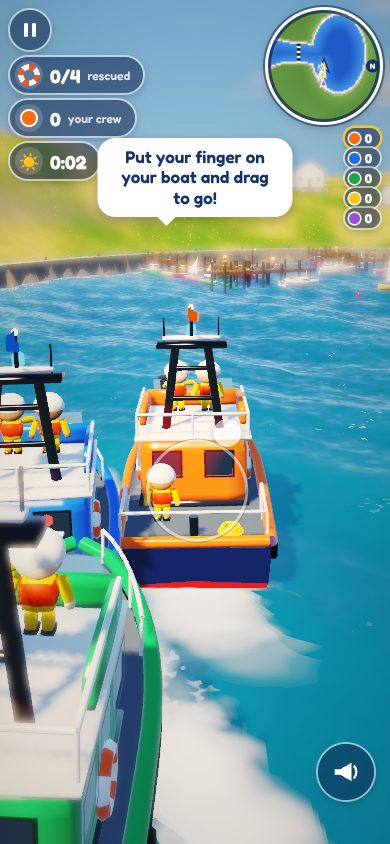
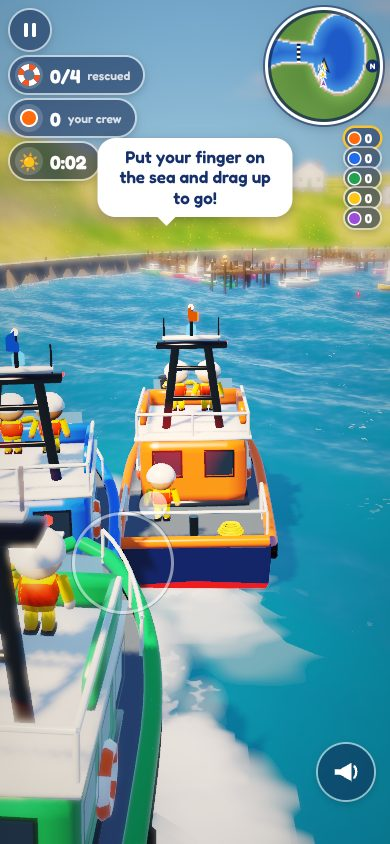
lab: rescue-coast steers from wherever you touch
A touch anywhere on the sea is the stick's middle for as long as the
finger stays down (the corner stick stays a Settings choice). Until you
have steered, a faint ring low down with its dot drifting up shows how.
With ?auto, a touch takes your boat back from the game. Smoke test and
steering views updated.

Claude-Session: https://claude.ai/code/session_01D2Nx3PayKJtFYoab5A57H3

diff --git a/cells/lab/client/rescue-coast/main.ts b/cells/lab/client/rescue-coast/main.ts
@@ -14,7 +14,7 @@
  *
  * Addresses: `?seed=` a coast; `?level=easy|medium|hard`; `?boat=0..4`; `?auto` (every boat the game's); `?t=40` that
  * far into the race; `?still` time held; `?view=podium`; `?near=n` little boat n and the boat coming for it;
- * `?mode=rally` the Rally; `?at=` the title's clock (seconds round its loop); `?weather=sunny|calm|windy|stormy|foggy|night|sunset`; `?study` a close look at your boat; `?zoom=`; `?hand=boat|left|right` where you steer from (your boat unless asked, or a stick in a bottom corner); `?preview` small and quiet.
+ * `?mode=rally` the Rally; `?at=` the title's clock (seconds round its loop); `?weather=sunny|calm|windy|stormy|foggy|night|sunset`; `?study` a close look at your boat; `?zoom=`; `?hand=touch|left|right` where you steer from (wherever you touch unless asked, or a stick in a bottom corner); `?preview` small and quiet.
  */
 import { CLEAR, GATE_HALF, GATE_Z, START_Z, groundAt, makeCoast, seaAt, seaward, shoreAt, type Coast, type CoastKind } from './coast';
 import { BOATS, CLIMB, HALF_BEAM, HALF_LEN, INSIDE, LEVELS, LINE, VMAX, everyoneAboard, local, newRace, runFor, standings, start, step, world, type Level, type Mode, type Race, type Rescue } from './race';
@@ -30,7 +30,7 @@ import { MiniMap, clock } from './hud';
 
 const params = new URLSearchParams(location.search);
 const preview = params.has('preview'), still = params.has('still') || params.has('ref'), study = params.has('study');
-const auto = params.has('auto') || preview;
+let auto = params.has('auto') || preview;
 const zoom = Number(params.get('zoom') ?? 1) || 1;
 const $ = (id: string) => document.getElementById(id) as HTMLElement;
 if (preview || study) document.body.classList.add('preview');
@@ -92,31 +92,23 @@ const lists: Record<string, Instances> = {};
 for (const k of ['boat', 'crew', 'kid0', 'kid1', 'kid2', 'row', 'kayak', 'sail', 'paddle', 'yacht', 'fishing', 'buoy-red', 'buoy-green', 'buoy-yellow', 'gull']) lists[k] = new Instances(64);
 const draws: Draw[] = Object.entries(lists).map(([kind, list]) => ({ kind, list }));
 const stick = new Joystick($('stick'), $('ghost'));
-/** where you steer from: your boat (a touch that starts on it takes hold of it), or a stick in a bottom corner; and whether
- * you've steered yet this time out (until you have, a ring round your boat says "here") */
-let steer: Steer = 'boat', steered = false;
+/** where you steer from: wherever you touch (that's the stick's middle while your finger's down), or a stick in a bottom
+ * corner; and whether you've steered yet this time out (until you have, a faint ring low down shows how) */
+let steer: Steer = 'touch', steered = false;
 function setSteer(s: Steer, keep = true) {
   steer = s;
-  document.body.classList.toggle('steer-boat', s === 'boat'); document.body.classList.toggle('hand-right', s !== 'left');
+  document.body.classList.toggle('steer-touch', s === 'touch'); document.body.classList.toggle('hand-right', s !== 'left');
   if (keep) store.set('lily-rescue-boats-steer', s);
 }
-stick.fromBoat(canvas, (x, y) => steer === 'boat' && ui === 'race' && !paused && !auto && onMyBoat(x, y));
-/** your lifeboat on the screen as drawn just now (CSS px): its middle, and its length */
-function myBoatOnScreen(): [number, number, number] | null {
-  const b = race.boats[mine], p = poses[b.id];
-  if (!p) return null;
-  const at = (along: number) => {
-    const [X, Y, Z] = onBoat(p, 0, 1.4, along);
-    const cx = vp[0] * X + vp[4] * Y + vp[8] * Z + vp[12], cy = vp[1] * X + vp[5] * Y + vp[9] * Z + vp[13], cw = vp[3] * X + vp[7] * Y + vp[11] * Z + vp[15];
-    return cw > 0 ? [(cx / cw * 0.5 + 0.5) * innerWidth, (0.5 - cy / cw * 0.5) * innerHeight] : null;
-  };
-  const a = at(-HALF_LEN), c = at(HALF_LEN);
-  return a && c ? [(a[0] + c[0]) / 2, (a[1] + c[1]) / 2, Math.hypot(c[0] - a[0], c[1] - a[1])] : null;
-}
-/** whether a point on the screen is on your lifeboat: generously, for a child's finger */
-function onMyBoat(px: number, py: number) {
-  const m = myBoatOnScreen();
-  return !!m && Math.hypot(px - m[0], py - m[1]) < Math.max(64, m[2] * 0.6);
+stick.anywhere(canvas, () => {
+  if (steer !== 'touch' || ui !== 'race' || paused || preview) return false;
+  // (the game steering everyone: a touch takes your boat back, unless the picture's held still)
+  if (auto) { if (still) return false; takeOver(); }
+  return true;
+});
+/** the game was steering every boat (`?auto`): yours is yours again */
+function takeOver() {
+  auto = false; race.auto = false; race.boats[mine].ai = null; steered = true;
 }
 const minimap = new MiniMap($('map') as HTMLCanvasElement);
 
@@ -406,11 +398,8 @@ function people(t: number, dt: number) {
       if (d < 55) { const col = BOATS[mine].colour; marks.put(FX.RING, k.x, 0, k.z, 4.4, 0, 0, 0, col[0], col[1], col[2], Math.min(1, (55 - d) / 20) * 0.85); }
     }
   });
-  // (steering from your boat, until you have: a ring round it, pulsing, in its colour, says "here")
-  if (ui === 'race' && !auto && steer === 'boat' && !steered && !stick.held && race.boats[mine].finished === null) {
-    const b = race.boats[mine], col = BOATS[mine].colour;
-    marks.put(FX.RING, b.x, 0, b.z, 7.5 + Math.sin(t * 5) * 0.6, 0, 0, 0, col[0], col[1], col[2], 0.6 + 0.3 * Math.sin(t * 5));
-  }
+  // (steering from wherever you touch, until you have: the faint ring low down, its dot drifting up, says how)
+  stick.hint(ui === 'race' && !auto && !paused && steer === 'touch' && !steered && !stick.held && race.boats[mine].finished === null);
   for (const [i] of nearHoles) {
     const k = race.crafts[i];
     holes.set([k.x, k.z, k.yaw, k.craft.kind === 'sail' ? 1.7 : 1.52], hc * 4); hc++;
@@ -645,13 +634,13 @@ function hud(t: number) {
   else if (!auto && me.finished === null) {
     const slow = LEVELS[race.level].slow;
     if (race.phase === 'countdown') text = 'Get ready…';
-    else if (race.t < 5 || (!steered && race.t < 15)) text = steer === 'boat' ? 'Put your finger on your boat and drag to go!' : 'Push the stick to go!';
+    else if (race.t < 5 || (!steered && race.t < 15)) text = steer === 'touch' ? 'Put your finger on the sea and drag up to go!' : 'Push the stick to go!';
     else if (k && k.stage === 'line') text = 'Line away!';
     else if (k && !service) text = 'Climbing aboard — hold still!';
     else if (k) text = Math.abs(me.v) > slow * 0.6 || Math.abs(me.turn) > 0.25 ? 'Ease off — hold her steady' : k.steady > 0.75 ? 'Nice and steady — climbing aboard!' : k.lee < 0.35 ? 'Bumpy here! Turn side-on to the waves to shelter them' : 'Hold her steady…';
     else if (service && inside && me.aboard.length && Math.abs(me.v) >= 7) text = 'Slow down so they can step ashore';
     else if (service && inside && me.aboard.length) text = 'Home! Stepping ashore…';
-    else if (race.crafts.some((c) => c.called && c.stage === 'wait' && c.left > 0 && Math.hypot(c.x - me.x, c.z - me.z) < 11 && Math.abs(me.v) > slow)) text = steer === 'boat' ? 'Slow down — let go of your boat!' : 'Slow down — let go of the stick!';
+    else if (race.crafts.some((c) => c.called && c.stage === 'wait' && c.left > 0 && Math.hypot(c.x - me.x, c.z - me.z) < 11 && Math.abs(me.v) > slow)) text = steer === 'touch' ? 'Slow down — let go!' : 'Slow down — let go of the stick!';
     else if (!service && race.lastCall) text = 'Last call! Head for the harbour!';
     else if (service && everyone && me.aboard.length) text = 'Everyone’s aboard! Bring them home to the harbour';
     else if (service && everyone) text = 'Everyone’s safe! Back to the harbour';
@@ -800,7 +789,7 @@ function callText(k: Rescue) {
 }
 function events() {
   for (const e of race.events.splice(0)) {
-    if (e.kind === 'go') { say('Go!'); sound.horn(); if (mode === 'service' && !auto) bubble(`📻 Coastguard: Launch! People need help outside the harbour — ${steer === 'boat' ? 'drag your boat' : 'push the stick'} to go!`, 4.5); }
+    if (e.kind === 'go') { say('Go!'); sound.horn(); if (mode === 'service' && !auto) bubble(`📻 Coastguard: Launch! People need help outside the harbour — ${steer === 'touch' ? 'drag up on the sea' : 'push the stick'} to go!`, 4.5); }
     else if (e.kind === 'call') { sound.radio(); if (!auto && race.boats[mine].finished === null) bubble(callText(race.crafts[e.craft]), 3.6); }
     else if (e.kind === 'edge') { if (e.boat === mine && !auto) bubble('📻 Coastguard: That’s the edge of the search area — turn back!', 3); }
     else if (e.kind === 'ashore') {
@@ -884,7 +873,7 @@ function frame(now: number) {
   if (snapWanted) { snapWanted = false; try { snapUrl = canvas.toDataURL('image/jpeg', 0.82); ($('snap') as HTMLImageElement).src = snapUrl; } catch { /* (no picture, then) */ } }
   (window as unknown as { __rescue: unknown }).__rescue = {
     variant: 'coast', mode, coast: coast.kind, ui, paused, phase: race.phase, seed, fleet: race.boats.reduce((n, b) => n + b.rescued, 0), ashore: race.ashore.length, called: race.crafts.filter((k) => k.called).length, weather: weather.name, name: coast.name, mine, level, t: race.t, auto, dpr, frameMs: ema,
-    stick: { x: stick.x, y: stick.y, held: stick.held }, steer, grab: ui === 'race' ? myBoatOnScreen() : null,
+    stick: { x: stick.x, y: stick.y, held: stick.held }, steer,
     boats: race.boats.map((b) => ({ x: b.x, z: b.z, h: b.h, v: b.v, rescued: b.rescued, finished: b.finished, home: b.home })),
     boarding: race.crafts.filter((k) => k.stage === 'line' || k.stage === 'climb').map((k) => ({ craft: k.craft.id, by: k.by, stage: k.stage })),
   };
@@ -948,7 +937,7 @@ function refScene(kind: string) {
 setWeather((params.get('weather') ?? 'sunny') as WeatherName);
 {
   const h = params.get('hand') ?? store.get('lily-rescue-boats-steer');
-  setSteer(h === 'left' || h === 'right' ? h : 'boat', false);
+  setSteer(h === 'left' || h === 'right' ? h : 'touch', false);
 }
 newCoast(seed);
 title();

diff --git a/cells/lab/client/rescue-coast/joystick.ts b/cells/lab/client/rescue-coast/joystick.ts
@@ -1,9 +1,10 @@
 /**
  * The wheel: a joystick, in one of two places.
  *
- * - **On your boat** (unless asked otherwise): there's nothing drawn; put your finger on your lifeboat and drag, and the
- *   boat is the stick's knob: drag ahead to go, to one side to turn, back to slow and back off. While your finger's down
- *   a faint ring shows where you took hold of it. A touch that starts anywhere else on the sea does nothing.
+ * - **Wherever you touch** (unless asked otherwise): there's nothing drawn; put your finger down anywhere on the sea and
+ *   that's the middle of the stick for as long as it stays down: drag ahead to go, to one side to turn, back to slow and
+ *   back off. While your finger's down a faint ring shows where you put it, and a dot where you've dragged to. Until
+ *   you've steered, the ring shows lower down, its dot drifting up, to say how.
  * - **In a bottom corner** (the right or the left): a stick that stays put, so your thumb never covers the sea ahead.
  *   Touch anywhere on it (or near it) and drag.
  *
@@ -11,14 +12,14 @@
  * and the boat turns while going steadily on. Let go and the knob springs home and the boat eases to a stop, which is how
  * you come alongside a little boat. Keys do the same (arrows, or WASD).
  */
-export type Steer = 'boat' | 'left' | 'right';
-/** on the boat: how far (px) from where you took hold is full stick */
+export type Steer = 'touch' | 'left' | 'right';
+/** wherever you touch: how far (px) from where you put your finger is full stick */
 const REACH = 64;
 
 export class Joystick {
   x = 0; y = 0; held = false;
   private el: HTMLElement; private knob: HTMLElement; private ghost: HTMLElement; private id = -1;
-  /** where a touch on the boat took hold (null: on the corner stick) */
+  /** where a touch on the sea took hold (null: on the corner stick) */
   private grip: [number, number] | null = null;
   private keys = new Set<string>();
   constructor(host: HTMLElement, ghost: HTMLElement) {
@@ -32,10 +33,16 @@ export class Joystick {
     addEventListener('keyup', (e) => this.keys.delete(e.code));
     addEventListener('blur', () => this.keys.clear());
   }
-  /** steer from the boat on `surface`: a touch there that `onBoat` says is on your boat takes hold of it */
-  fromBoat(surface: HTMLElement, onBoat: (x: number, y: number) => boolean) {
-    surface.addEventListener('pointerdown', (e) => { if (this.id === -1 && onBoat(e.clientX, e.clientY)) this.take(surface, e, [e.clientX, e.clientY]); });
+  /** steer from wherever you touch on `surface`, while `ok` says so: where the touch starts is the stick's middle */
+  anywhere(surface: HTMLElement, ok: () => boolean) {
+    surface.addEventListener('pointerdown', (e) => { if (this.id === -1 && ok()) this.take(surface, e, [e.clientX, e.clientY]); });
     this.follow(surface);
+  }
+  /** until you've steered: the ring low down the screen, its dot drifting up (`on`) */
+  hint(on: boolean) {
+    if (this.grip) return;
+    this.ghost.classList.toggle('on', on); this.ghost.classList.toggle('hint', on);
+    if (on) { this.ghost.style.transform = `translate(${innerWidth / 2}px, ${innerHeight * 0.72}px)`; (this.ghost.firstChild as HTMLElement).style.transform = ''; }
   }
   private take(on: HTMLElement, e: PointerEvent, grip: [number, number] | null) {
     this.id = e.pointerId; on.setPointerCapture(e.pointerId); this.held = true; this.grip = grip; this.move(e); e.preventDefault();
@@ -59,7 +66,7 @@ export class Joystick {
   private show() {
     this.knob.style.transform = `translate(${this.x * 36}px, ${-this.y * 36}px)`; this.el.classList.toggle('held', this.held && !this.grip);
     // (on the boat: a faint ring where you took hold, a dot where the knob's got to)
-    this.ghost.classList.toggle('on', !!this.grip);
+    this.ghost.classList.toggle('on', !!this.grip); if (this.grip) this.ghost.classList.remove('hint');
     if (this.grip) { this.ghost.style.transform = `translate(${this.grip[0]}px, ${this.grip[1]}px)`; (this.ghost.firstChild as HTMLElement).style.transform = `translate(${this.x * REACH}px, ${-this.y * REACH}px)`; }
   }
   /** what the hand asks for: steer (right +) and throttle (ahead +) */

diff --git a/cells/lab/experiments.ts b/cells/lab/experiments.ts
@@ -44,7 +44,7 @@ export const EXPERIMENTS: Experiment[] = [
   },
   {
     id: 'rescue-coast', title: 'Lily’s Rescue Boats', group: 'Play',
-    blurb: 'All boats home: Lily’s lifeboat game, built from the concept boards. The Rescue Service: five toy lifeboats (navy hulls, RNLI on the bow, each wheelhouse its own colour, Lily’s names) moored along the lamp-lit pier of a little harbour, timber jetties all round it with fishing boats, dinghies and yachts moored along them and more at their buoys, the town come down to see them off; out past the headland into the open sea as the calls come in on the radio, near the harbour first, then along the coast, then the bigger ones out at sea (a yacht that’s lost its mast). Come alongside and hold steady (easier in the lee of a headland, or with the little boat sheltered by your own hull) and they climb aboard; when everyone’s been found, bring them all home to step ashore on the pier. The weather changes through the day: a squall, a fog bank, evening into night. Everyone home, then the crews’ honours. And the Rally, Lily’s race as she wrote it: up the channel to the harbour mouth, 1st to 5th. You steer by putting your finger on your boat and dragging (or a stick in a corner).',
+    blurb: 'All boats home: Lily’s lifeboat game, built from the concept boards. The Rescue Service: five toy lifeboats (navy hulls, RNLI on the bow, each wheelhouse its own colour, Lily’s names) moored along the lamp-lit pier of a little harbour, timber jetties all round it with fishing boats, dinghies and yachts moored along them and more at their buoys, the town come down to see them off; out past the headland into the open sea as the calls come in on the radio, near the harbour first, then along the coast, then the bigger ones out at sea (a yacht that’s lost its mast). Come alongside and hold steady (easier in the lee of a headland, or with the little boat sheltered by your own hull) and they climb aboard; when everyone’s been found, bring them all home to step ashore on the pier. The weather changes through the day: a squall, a fog bank, evening into night. Everyone home, then the crews’ honours. And the Rally, Lily’s race as she wrote it: up the channel to the harbour mouth, 1st to 5th. You steer by putting your finger anywhere on the sea and dragging (or a stick in a corner).',
     page: 'static/rescue-coast.html', preview: 'preview&seed=1', readme: 'static/rescue-coast.md',
     presets: [{ label: 'play', query: '' }, { label: 'the Rally', query: 'mode=rally' }, { label: 'moored in the harbour', query: 'seed=1&t=0&still' }, { label: 'the harbour from above', query: 'seed=1&ref=harbour' }, { label: 'along the coast', query: 'seed=1&auto&boat=0&t=30' }, { label: 'coming alongside', query: 'seed=1&auto&t=66.6&near=0' }, { label: 'a dismasted yacht', query: 'seed=1&auto&t=180.8&near=13' }, { label: 'out at sea, at sunset', query: 'seed=1&auto&boat=2&t=130' }, { label: 'a full deck', query: 'seed=1&auto&boat=0&t=206' }, { label: 'safe ashore', query: 'seed=1&auto&boat=0&t=222.3' }, { label: 'the stick in a corner', query: 'hand=right' }, { label: 'the lifeboat', query: 'seed=1&auto&t=20&study' }, { label: 'a storm', query: 'seed=1&auto&t=44&weather=stormy' }, { label: 'fog', query: 'seed=1&auto&t=40&weather=foggy' }, { label: 'night', query: 'seed=1&auto&t=60&weather=night' }, { label: 'everyone home', query: 'seed=1&auto&view=podium' }, { label: 'the Rally’s finish', query: 'seed=1&auto&mode=rally&view=podium' }],
   },

diff --git a/cells/lab/static/rescue-coast.html b/cells/lab/static/rescue-coast.html
@@ -135,14 +135,18 @@
     #stick .knob { position: absolute; left: 36px; top: 36px; width: 60px; height: 60px; border-radius: 50%; background: radial-gradient(circle at 35% 30%, #fff, #d9e2ee); box-shadow: 0 4px 10px rgba(0, 0, 0, .35), inset 0 -3px 0 rgba(20, 40, 80, .12); transition: transform .12s ease-out; }
     #stick.held .knob { transition: none; }
     /* (steering from the boat: no stick in the corner; a faint ring where your finger took hold, and the horn in the corner) */
-    body.steer-boat #stick { display: none !important; }
+    body.steer-touch #stick { display: none !important; }
     #ghost { position: fixed; left: -48px; top: -48px; width: 96px; height: 96px; border-radius: 50%; border: 3px solid rgba(255, 255, 255, .5); box-shadow: 0 0 0 1px rgba(10, 30, 70, .25); pointer-events: none; display: none; z-index: 2; }
     #ghost.on { display: block; }
+    #ghost.hint { animation: ghost-in 1.8s ease-out infinite; }
+    #ghost.hint i { animation: ghost-up 1.8s ease-in-out infinite; }
+    @keyframes ghost-in { 0% { opacity: 0; } 20%, 80% { opacity: 1; } 100% { opacity: 0; } }
+    @keyframes ghost-up { 0%, 15% { translate: 0 0; } 70%, 100% { translate: 0 -46px; } }
     #ghost i { position: absolute; left: 31px; top: 31px; width: 28px; height: 28px; border-radius: 50%; background: rgba(255, 255, 255, .6); box-shadow: 0 2px 6px rgba(0, 0, 0, .25); }
     #horn { position: fixed; bottom: calc(max(14px, env(safe-area-inset-bottom)) + 30px); right: calc(max(12px, env(safe-area-inset-right)) + 172px); width: 56px; height: 56px; border-radius: 50%; display: none; align-items: center; justify-content: center; z-index: 2; }
     body:not(.hand-right) #horn { right: auto; left: calc(max(12px, env(safe-area-inset-left)) + 172px); }
     body.racing #horn { display: flex; }
-    body.steer-boat #horn { right: max(16px, calc(env(safe-area-inset-right) + 12px)); left: auto; }
+    body.steer-touch #horn { right: max(16px, calc(env(safe-area-inset-right) + 12px)); left: auto; }
     #horn svg { width: 30px; height: 30px; }
     #horn:active { transform: scale(.92); }
 
@@ -223,7 +227,7 @@
   <section id="settings-panel" class="panel">
     <h2>Settings</h2>
     <div class="set"><span>How good are the other crews?</span><div class="seg" id="levels"><button data-level="easy">easy<small>slower, kind</small></button><button data-level="medium">medium<small>a fair race</small></button><button data-level="hard">hard<small>fast, sharp</small></button></div></div>
-    <div class="set"><span>Steering</span><div class="seg" id="hands"><button data-hand="boat">your boat</button><button data-hand="left">stick, left</button><button data-hand="right">stick, right</button></div></div>
+    <div class="set"><span>Steering</span><div class="seg" id="hands"><button data-hand="touch">anywhere</button><button data-hand="left">stick, left</button><button data-hand="right">stick, right</button></div></div>
     <div class="set"><div class="line"><span>Sound</span><button id="sound">on</button></div></div>
     <div class="set"><div class="line"><span>The coast: <b id="seedname"></b></span><button id="newsea">a new coast</button></div></div>
     <div class="set"><div class="line"><span>How it’s made</span><a href="{{readme}}">notes</a></div></div>

diff --git a/cells/lab/static/rescue-coast.md b/cells/lab/static/rescue-coast.md
@@ -27,7 +27,7 @@ The title is the boards' title card: your lifeboat charging along under the ligh
 - **Weather:** seven tiles; the title behind changes as you pick. In the Service it's the weather the day starts in; the forecast on the title (☀ → 🌅 → 🌙) says where it goes from there.
 - **Settings:**
   - how good the other crews are (easy, medium, hard);
-  - where you steer from: your boat, or a stick in the bottom-left or bottom-right corner (kept in this browser);
+  - where you steer from: anywhere you touch, or a stick in the bottom-left or bottom-right corner (kept in this browser);
   - sound;
   - a new coast;
   - these notes.
@@ -41,12 +41,12 @@ The title is the boards' title card: your lifeboat charging along under the ligh
 
 | | Touch | Keys |
 |---|---|---|
-| steer | put your finger on your boat and drag: ahead to go faster, to one side to turn, back to slow and back off (or the stick in a corner, if you've chosen it in Settings) | the arrow keys, or WASD |
+| steer | put your finger anywhere on the sea and drag: ahead to go faster, to one side to turn, back to slow and back off (or the stick in a corner, if you've chosen it in Settings) | the arrow keys, or WASD |
 | stop | let go | let go of the keys |
 | sound the horn | the horn, bottom-right (your crew wave) | |
 | pause | the button top-left | escape |
 
-- **Your boat is the stick.** There's no stick drawn: a touch that starts on your lifeboat takes hold of it (generously: anywhere near it will do), and dragging from there is a joystick with the boat as its knob. Drag ahead and it goes, to one side and it turns while going steadily on, back and it slows and backs off; let go and it eases to a stop. While your finger is down a faint ring shows where you took hold, and a dot where you've dragged to. A touch anywhere else on the sea does nothing, so a stray hand doesn't steer. Until you've steered, a ring pulses round your boat to say where.
+- **Wherever you touch is the stick.** There's no stick drawn: put your finger down anywhere on the sea and that spot is the middle of the stick for as long as your finger stays down. Drag ahead and the boat goes, to one side and it turns while going steadily on, back and it slows and backs off; let go and it eases to a stop. While your finger is down a faint ring shows where you put it, and a dot where you've dragged to. Until you've steered, the ring shows low down the screen with its dot drifting up, to say how. (With the game steering every boat, `?auto`, a touch takes yours back.)
 - **Or a stick in a corner**, if you'd rather (Settings, or `?hand=right` / `?hand=left`): it stays put, so your thumb never covers the sea ahead; the same stick, with its own knob.
 - **The camera** rides low and close behind your boat, as on the boards' gameplay panel: your lifeboat a third of the way across, the coast ahead on the horizon. It turns with the boat but smoothly, and rises over a cliff rather than look through it. Slowing for someone waiting nearby, it eases down and round a little toward them. When a little boat is alongside it cuts in low beside your hull to watch them climb aboard (the boards' close rescue), and eases back out when they're all across.
 
@@ -61,7 +61,7 @@ The title is the boards' title card: your lifeboat charging along under the ligh
 - **top-right:**
   - a round map turned to your heading, N going round its rim, showing the little boats still waiting (in their colours; in the Service, one another crew is going for has their colour round it), the other lifeboats and the harbour mouth;
   - under it, the five crews' counts (the Rally: the five places).
-- **a speech bubble:** what to do next ("Put your finger on your boat and drag to go!", "Slow down — let go of your boat!", "Nice and steady — climbing aboard!", "Listening for the next call…", "Everyone's aboard! Bring them home to the harbour", "Home! Stepping ashore…"; the Rally's "Last call! Head for the harbour!"), the coastguard on the radio ("📻 Coastguard: A paddleboarder, in trouble just outside the harbour!", "📻 Coastguard: Fog rolling in — watch for the lighthouses"), and the other crews ("Turtle: All yours, Puffin — we'll find someone else!").
+- **a speech bubble:** what to do next ("Put your finger on the sea and drag up to go!", "Slow down — let go!", "Nice and steady — climbing aboard!", "Listening for the next call…", "Everyone's aboard! Bring them home to the harbour", "Home! Stepping ashore…"; the Rally's "Last call! Head for the harbour!"), the coastguard on the radio ("📻 Coastguard: A paddleboarder, in trouble just outside the harbour!", "📻 Coastguard: Fog rolling in — watch for the lighthouses"), and the other crews ("Turtle: All yours, Puffin — we'll find someone else!").
 - **a lifebuoy and a bar** that fills while people come aboard.
 - **arrows** at the edge to the nearest little boats out of sight (in the Service, ones no other crew is going for), and to the harbour when it's time (in the Service: once everyone's aboard).
 - **the horn**, bottom-right (and the stick, if you've chosen one).
@@ -255,7 +255,7 @@ The sea:
 | `client/rescue-coast/shapes.ts`, `models.ts` | making meshes; the lifeboat, people, little boats, buoys, boulders, lighthouses, cottages, station, banner, gulls |
 | `client/rescue-coast/world.ts` | the coast made drawable, in pieces along it |
 | `client/rescue-coast/render.ts`, `fx.ts` | the drawing; wakes, spray, the line, the rings |
-| `client/rescue-coast/joystick.ts`, `sound.ts`, `main.ts` | the stick (on your boat, or in a corner); the sounds; the page |
+| `client/rescue-coast/joystick.ts`, `sound.ts`, `main.ts` | the stick (wherever you touch, or in a corner); the sounds; the page |
 
 **Tests:**
 - The coast and the rules, without a page: `node cells/lab/devtools/rescue-coast.test.mjs`.
@@ -270,7 +270,7 @@ The sea:
   - Driven flat out at a jetty side on: a bump, held off, still on the side it came from.
   - Whole days steered by the game (two levels; and in a storm): everyone ashore and every lifeboat in, in three to six minutes; no hull inside the shore or through a jetty or a moored boat; ashore only in the harbour; no crew heading home while someone's left waiting for it; the calls at their times; no two crews after one little boat.
   - The same seed gives the same race, and the same day at sea.
-- In a browser, by hand: `node cells/lab/devtools/rescue-coast-smoke.mjs` (the line-up and the tagline, Play into the Service on its own coast, moored in the harbour with the first calls in, the fleet's count, the Rally from its own button on its own coast; steering from the boat: no stick drawn, a touch on the sea elsewhere does nothing, take hold of the boat and drag ahead, to the right, let go, the faint ring while held; the keys; the stick in either corner when asked; both ends).
+- In a browser, by hand: `node cells/lab/devtools/rescue-coast-smoke.mjs` (the line-up and the tagline, Play into the Service on its own coast, moored in the harbour with the first calls in, the fleet's count, the Rally from its own button on its own coast; steering from anywhere: no stick drawn, a ring low down until you have, a touch on the sea away from the boat dragged up, to the right, let go, the faint ring where you touched; with the game steering, a touch takes your boat back; the keys; the stick in either corner when asked; both ends).
 - The pictures: `node cells/lab/views.mjs rescue-coast`.
 
 **Addresses:**
@@ -286,7 +286,7 @@ The sea:
 - `?near=n` (or `near=any`) a little boat and the lifeboat coming for it;
 - `?study` a close look at your lifeboat;
 - `?zoom=`;
-- `?hand=boat|left|right` where you steer from (your boat unless asked; a choice in Settings is kept);
+- `?hand=touch|left|right` where you steer from (wherever you touch unless asked; a choice in Settings is kept);
 - `?weather=sunny|calm|windy|stormy|foggy|night|sunset` (the Service's day starts in it);
 - `?preview` small and quiet.
 

diff --git a/cells/lab/static/rescue-coast/views.md b/cells/lab/static/rescue-coast/views.md
@@ -19,8 +19,8 @@ Made by `node cells/lab/views.mjs rescue-coast` from `client/rescue-coast/views.
 
 ## Steering
 
-![Your boat is the stick: until you’ve steered, a ring round your boat says where: put your finger on it and drag](v-steer.jpg)
-![Take hold and drag: drag ahead to go, to one side to turn, back to slow down; a faint ring where you took hold; let go and she eases to a stop](v-steer-drag.jpg)
+![Touch anywhere and drag: until you’ve steered, a faint ring low down, its dot drifting up, says how: put your finger anywhere on the sea and drag up](v-steer.jpg)
+![Wherever you touch is the stick: where your finger goes down is the middle of the stick: drag ahead to go, to one side to turn, back to slow down; a faint ring where you put it; let go and she eases to a stop](v-steer-drag.jpg)
 
 ## Coming alongside
 
